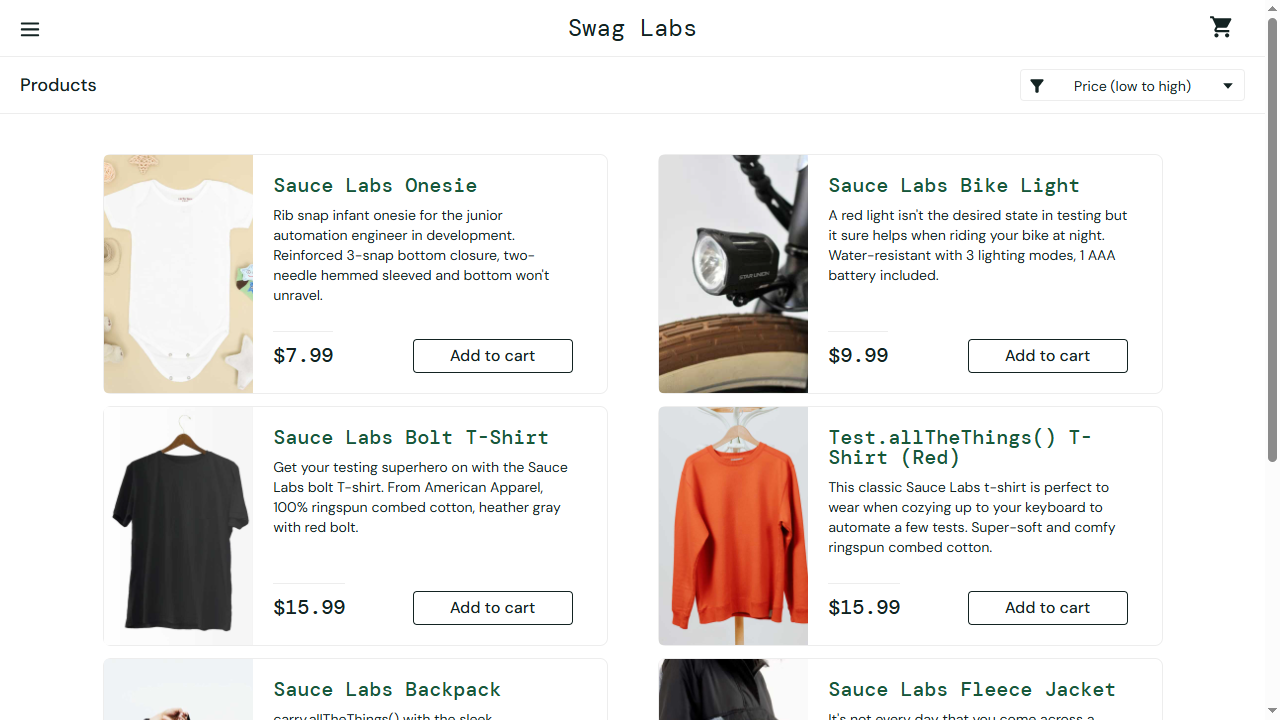
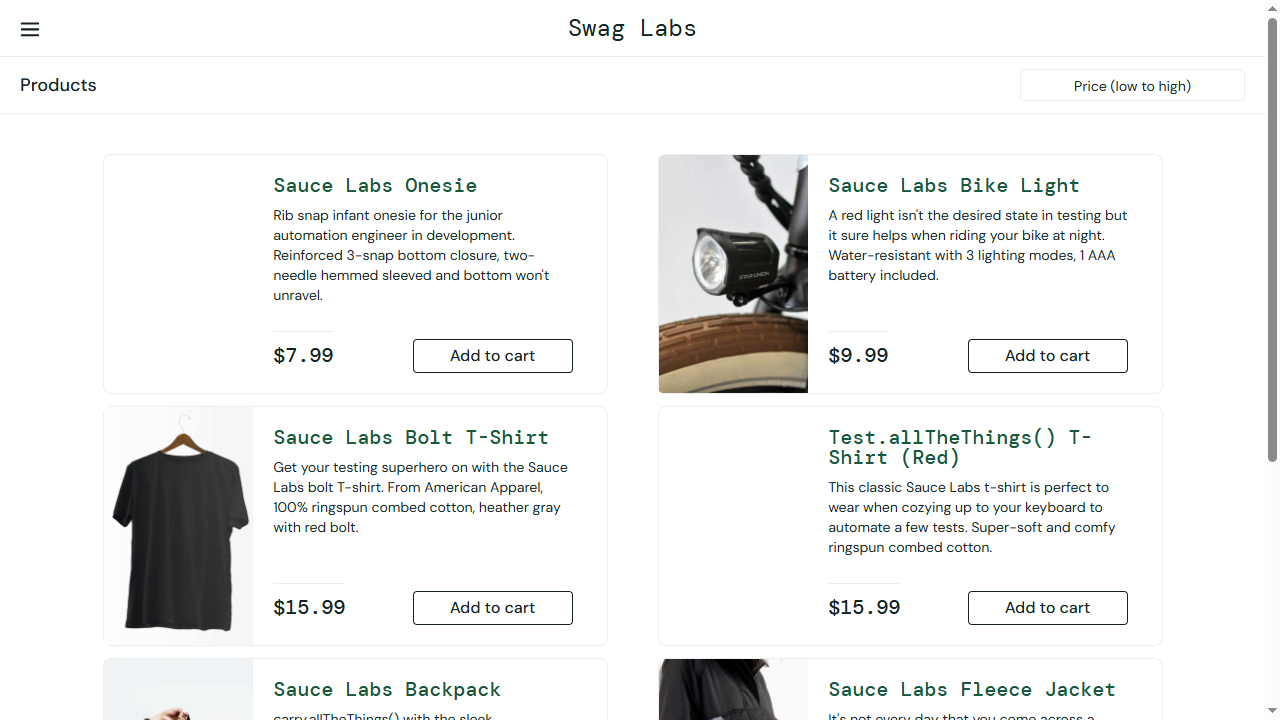
j

diff --git a/tests/test_checkout.py b/tests/test_checkout.py
@@ -1,0 +1,44 @@
+
+#Test Case 7  -Checkout with product in cart
+def test_checkout(page):
+    # ADD TO CART
+    page.click("#add-to-cart-sauce-labs-backpack")
+    # OPEN CART
+    page.click(".shopping_cart_link")
+
+    # Click checkout button
+    page.click("#checkout")
+
+    # enter details
+    page.fill("#first-name", "SUDHANSHU")
+    page.fill("#last-name", "DIXIT")
+    page.fill("#postal-code", "209801")
+
+    # click continue
+    page.click("#continue")
+
+    # Finish
+    page.click("#finish")
+
+    # validation
+    assert page.locator(".complete-header").inner_text() == "Thank you for your order!"
+
+
+#Test Case 8 -Checkout empty cart
+def test_empty_cart_checkout(page):
+
+    page.click(".shopping_cart_link")
+
+    page.click("#checkout")
+
+    page.fill("#first-name","Sudhanshu")
+    page.fill("#last-name","Dixit")
+    page.fill("#postal-code","226001")
+
+    page.click("#continue")
+
+    assert page.locator(".title").inner_text() == "Checkout: Overview"
+
+
+    # Screenshot
+    page.screenshot(path="screenshots/empty_cart_checkout.png")

diff --git a/tests/test_logout.py b/tests/test_logout.py
@@ -1,0 +1,37 @@
+#Test case -9 Logout
+
+def test_logout(page):
+
+    # open side menu
+    page.click("#react-burger-menu-btn")    #react-burger-menu-btn is element ID.Hamburger Menu(☰)
+    page.click("#logout_sidebar_link")
+
+    # Verify user is redirected to login page
+    assert page.url == "https://www.saucedemo.com/", "User was not redirected to Login Page after logout"
+
+    # Verify Login button is visible
+    assert page.locator("#login-button").is_visible(), "Login button is not visible after logout"
+
+    page.screenshot(path="screenshots/logout.png")
+
+
+
+#Test case -10 Product Details
+
+def test_product_details(page):
+
+    # click on the product
+    page.click("#item_4_title_link")  # "item_4_title_link" is HTML element ID of the product "Sauce Labs Backpack"
+
+    # Capture product details
+    product_title = page.locator(".inventory_details_name").inner_text()  # inventory_details_name is class name of the product title
+
+        #We can also use text_content() for direct text retrieval.
+        # product_title = text_content(".inventory_details_name")
+
+        # Validation
+    assert product_title == "Sauce Labs Backpack", "Product details do not match"    #if the product title is "Sauce Labs Backpack" then it will pass the test but if the product title is not "Sauce Labs Backpack" then it will fail the test
+
+
+        # Screenshot
+    page.screenshot(path="screenshots/product_details.png")